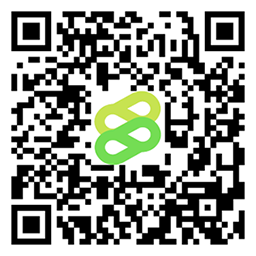
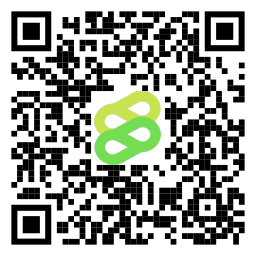
change donation address for smartBCH

diff --git a/public/index.html b/public/index.html
@@ -308,7 +308,7 @@
               </div>
               <p>
                 bitcoincash:qqlw4yggvgfc24pv8vzpv4svx35rtf3txvdeahpzml<br />
-                smartbch:0x51da43da6A8C555983575023149a237dC8A9803f
+                smartbch:0x7256a81B2c936B00c5b19415722a65E77d52a468
               </p>
               <h5>Spending</h5>
               <table style="width: 100%">
